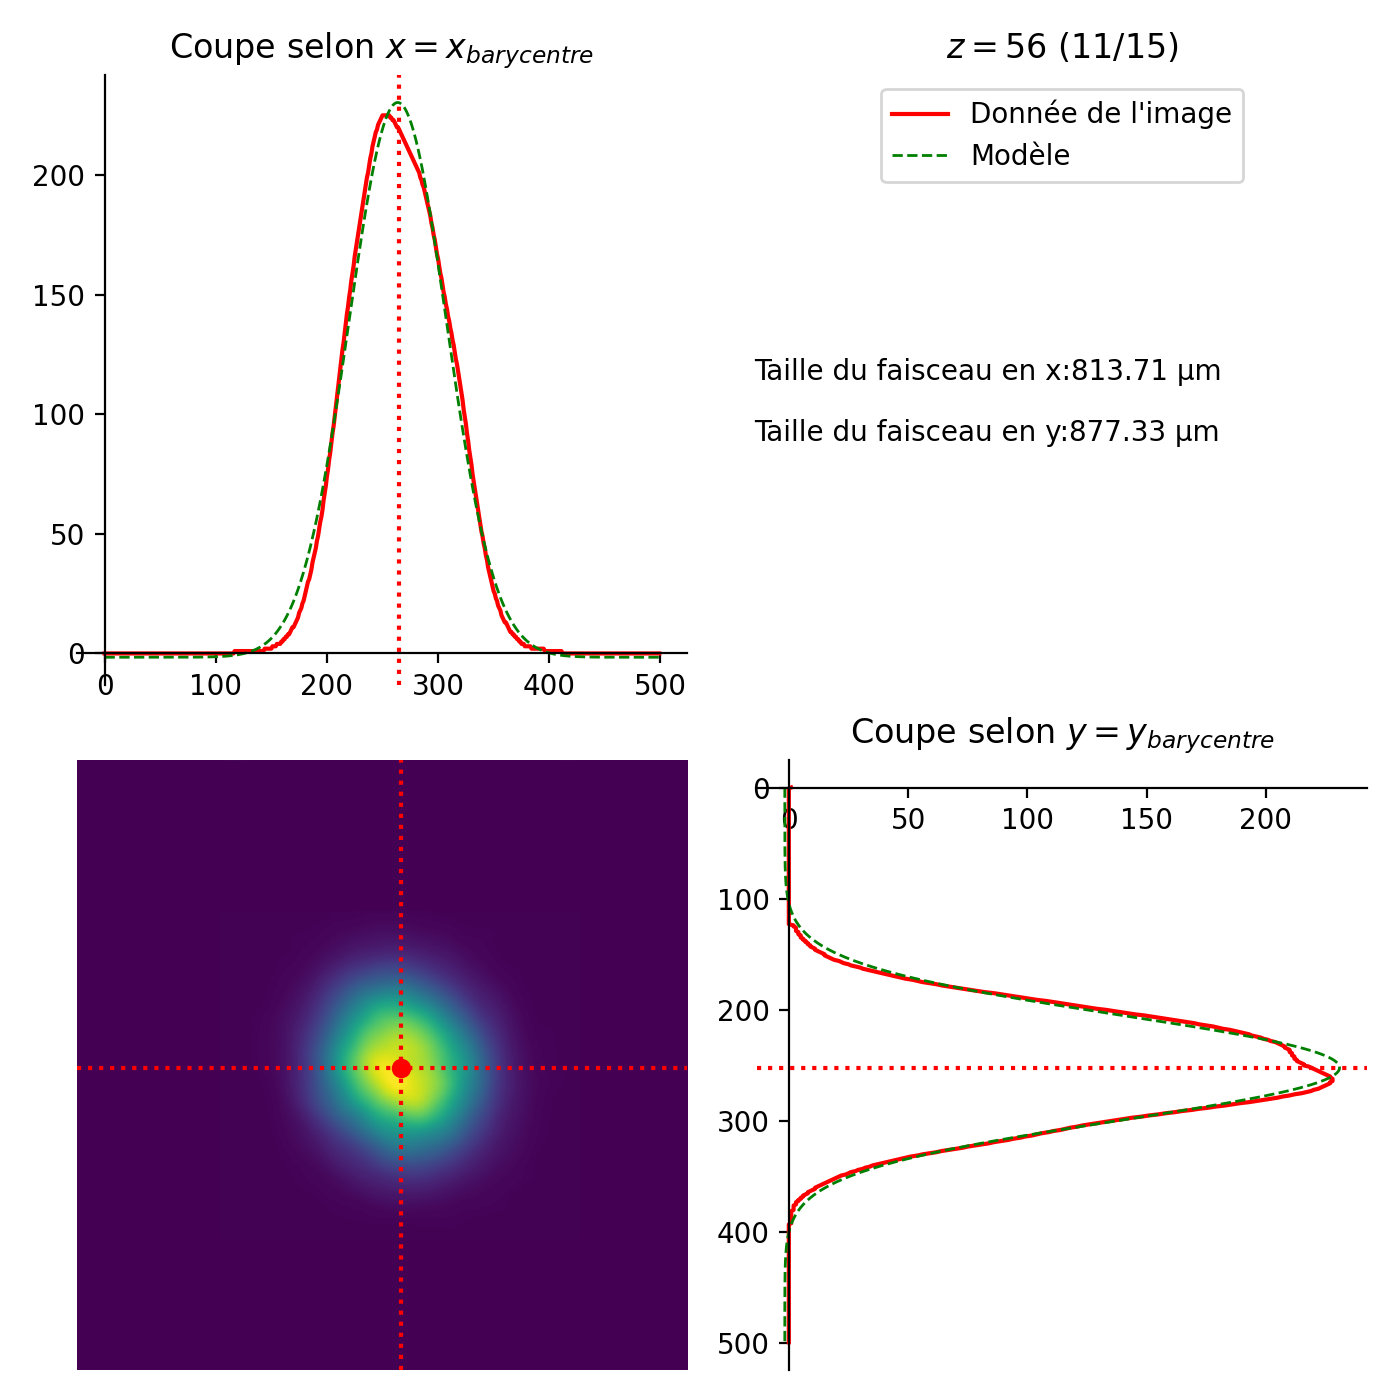
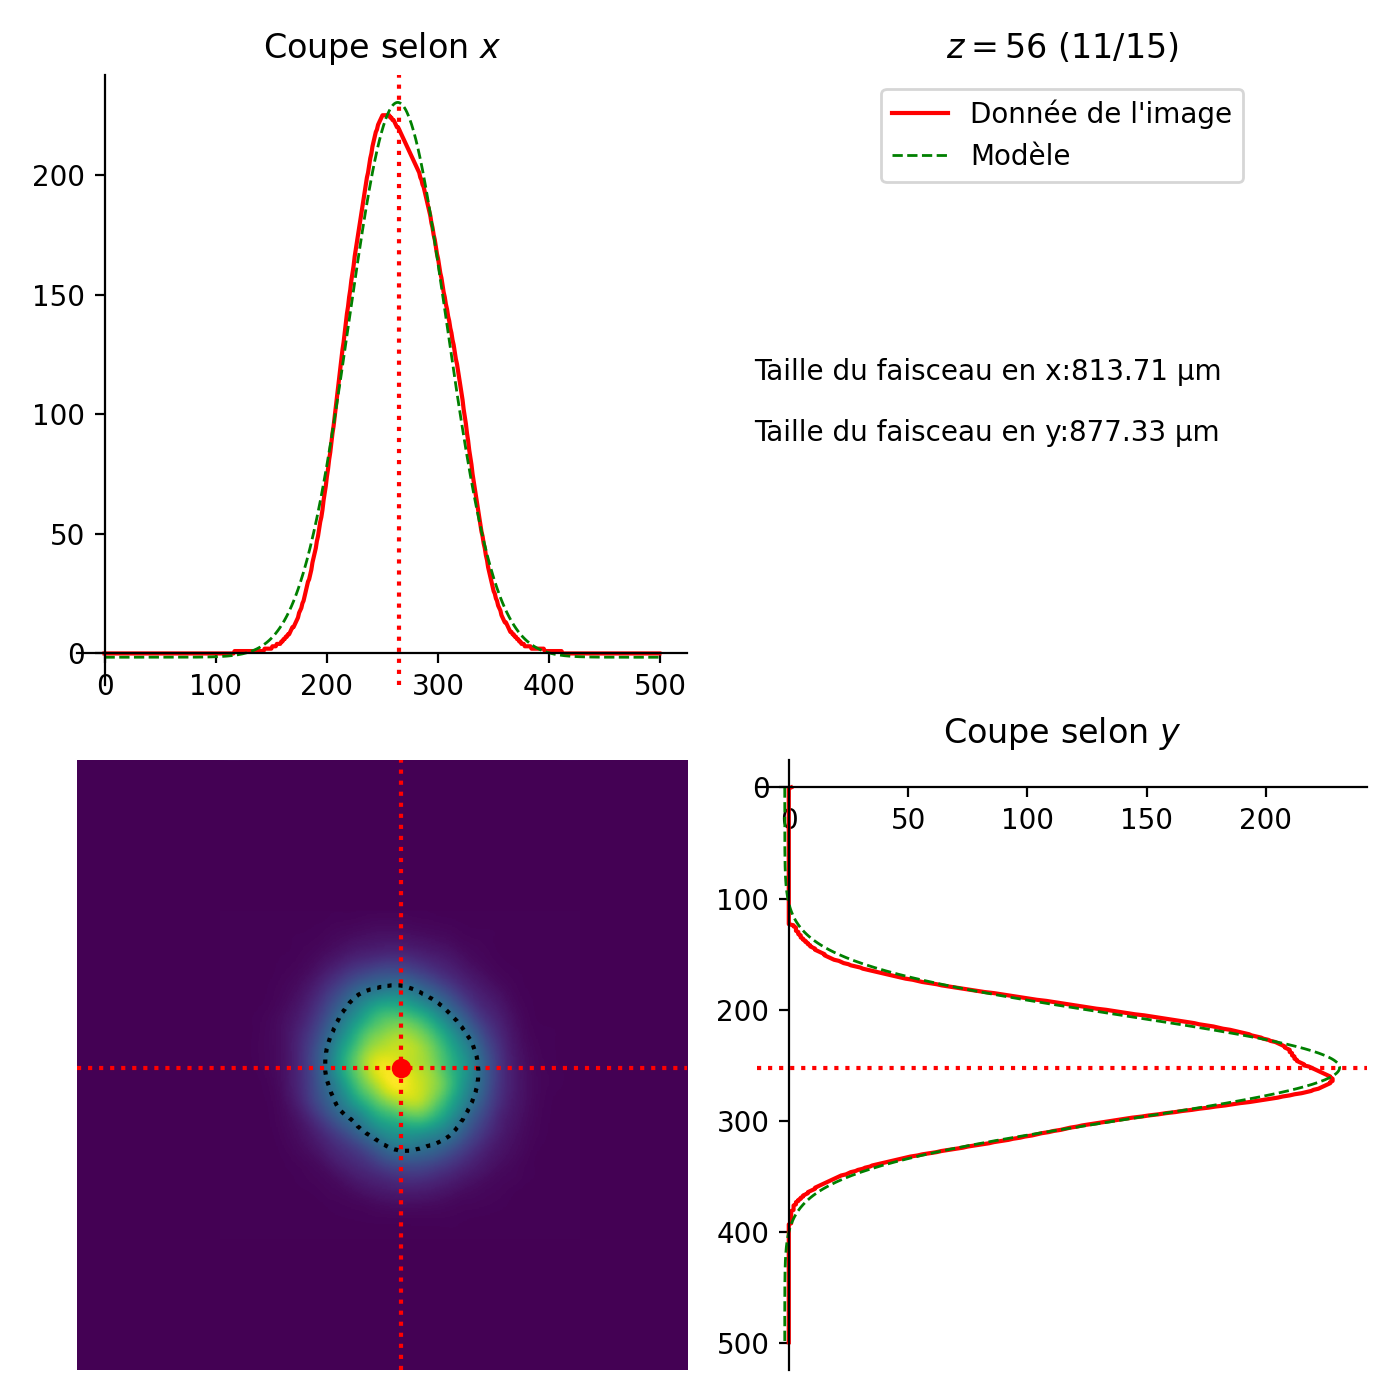
Update Bloc 2

diff --git a/1A/bloc_2.py b/1A/bloc_2.py
@@ -19,7 +19,7 @@ import graphe
 PIXEL = 4.65  # µm - Taille d'un pixel
 WAVELENGH = 1.3e-6  # m
 PI = np.pi
-DPI = 200
+DPI = None
 
 
 # %% Pour afficher avec la notation scientifique
@@ -99,16 +99,17 @@ for i in range(len(z)):
     ax[1, 0].axvline(xb, c='red', ls=':')
     ax[1, 0].axhline(yb, c='red', ls=':')
     ax[1, 0].scatter(xb, yb, c='red')
+    ax[1, 0].contour(image, [np.max(image)/np.exp(1)], colors=['k'], linestyles='dotted')
 
     # On affiche le profil selon x
-    ax[1, 1].set_title(r"Coupe selon $y=y_{barycentre}$")
+    ax[1, 1].set_title(r"Coupe selon $y$")
     from_img, = ax[1, 1].plot(image[:, int(np.floor(xb))], XX, c='r')
     ax[1, 1].axhline(yb, c='red', ls=':')
     ax[1, 1].invert_yaxis()
     fitted, = ax[1, 1].plot(gaussienne(XX, A_y, B_y, y0, w_y), XX, c='green', lw=1, ls='--')
 
     # On affiche le profil selon y
-    ax[0, 0].set_title(r"Coupe selon $x=x_{barycentre}$")
+    ax[0, 0].set_title(r"Coupe selon $x$")
     ax[0, 0].plot(XX, image[int(np.floor(yb)), :], c='r')
     ax[0, 0].axvline(xb, c='red', ls=':')
     ax[0, 0].plot(XX, gaussienne(XX, A_x, B_x, x0, w_x), c='green', lw=1, ls='--')
@@ -132,8 +133,9 @@ for i in range(len(z)):
     width_x.append(w_x)
     width_y.append(w_y)
 
-    plt.savefig("bloc_2_export/analyse_image_"+str(i)+'.png', dpi=DPI)
-    plt.show()
+    if DPI is not None:
+        plt.savefig("bloc_2_export/analyse_image_"+str(i)+'.png', dpi=DPI)
+    plt.show(block=True)
 
 width_x = np.array(width_x)*PIXEL
 width_y = np.array(width_y)*PIXEL
@@ -162,8 +164,9 @@ ax_M2_x.plot(z_plot, -rayon(z_plot, w0_x, M_x), color='r')
 ax_M2_x.fill_between(z_plot, -rayon(z_plot, w0_x, M_x), rayon(z_plot, w0_x, M_x), color='r', alpha=.5)
 ax_M2_x.scatter(z, width_x, color='k')
 ax_M2_x.scatter(z, -width_x, color='k')
-plt.savefig("bloc_2_export/waist_x.png", dpi=DPI)
-plt.show()
+if DPI is not None:
+    plt.savefig("bloc_2_export/waist_x.png", dpi=DPI)
+plt.show(block=True)
 
 ax_M2_y = graphe.new_plot()
 ax_M_y = graphe.lin_XY(
@@ -179,5 +182,6 @@ ax_M2_y.plot(z_plot, -rayon(z_plot, w0_y, M_y), color='r')
 ax_M2_y.fill_between(z_plot, -rayon(z_plot, w0_y, M_y), rayon(z_plot, w0_y, M_y), color='r', alpha=.5)
 ax_M2_y.scatter(z, width_x, color='k')
 ax_M2_y.scatter(z, -width_x, color='k')
-plt.savefig("bloc_2_export/waist_y.png", dpi=DPI)
-plt.show()
+if DPI is not None:
+    plt.savefig("bloc_2_export/waist_y.png", dpi=DPI)
+plt.show(block=True)
